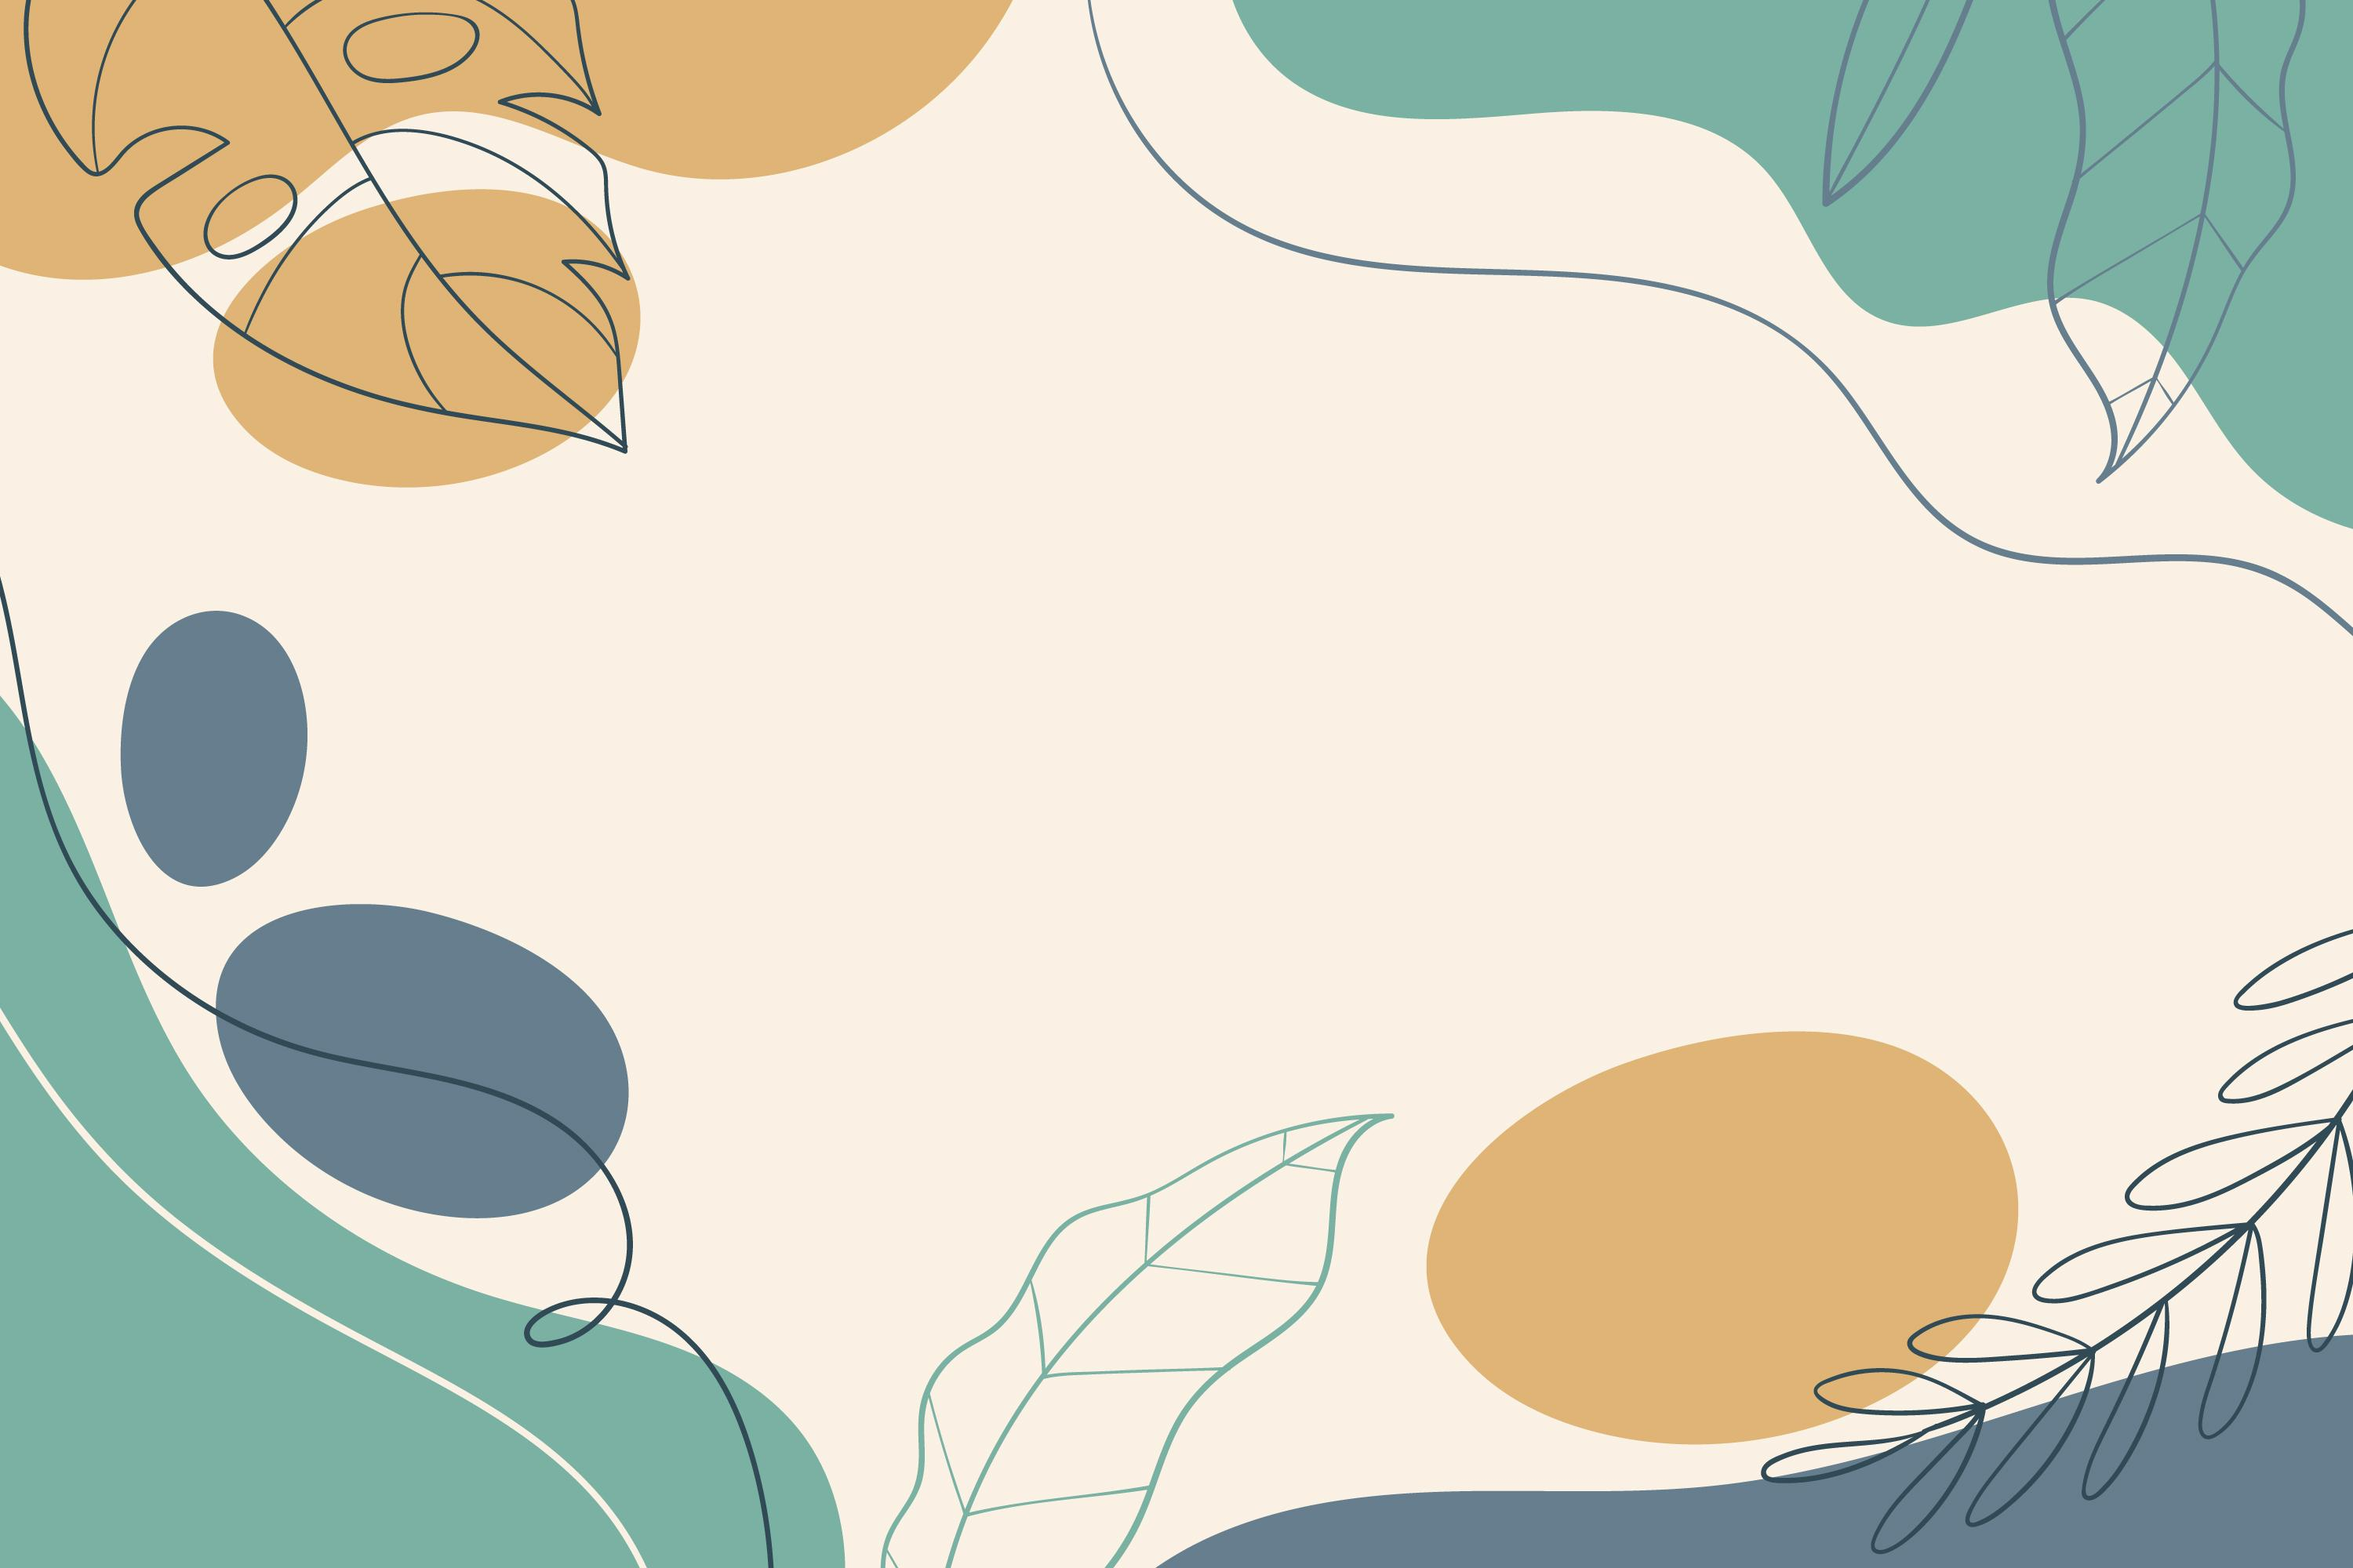
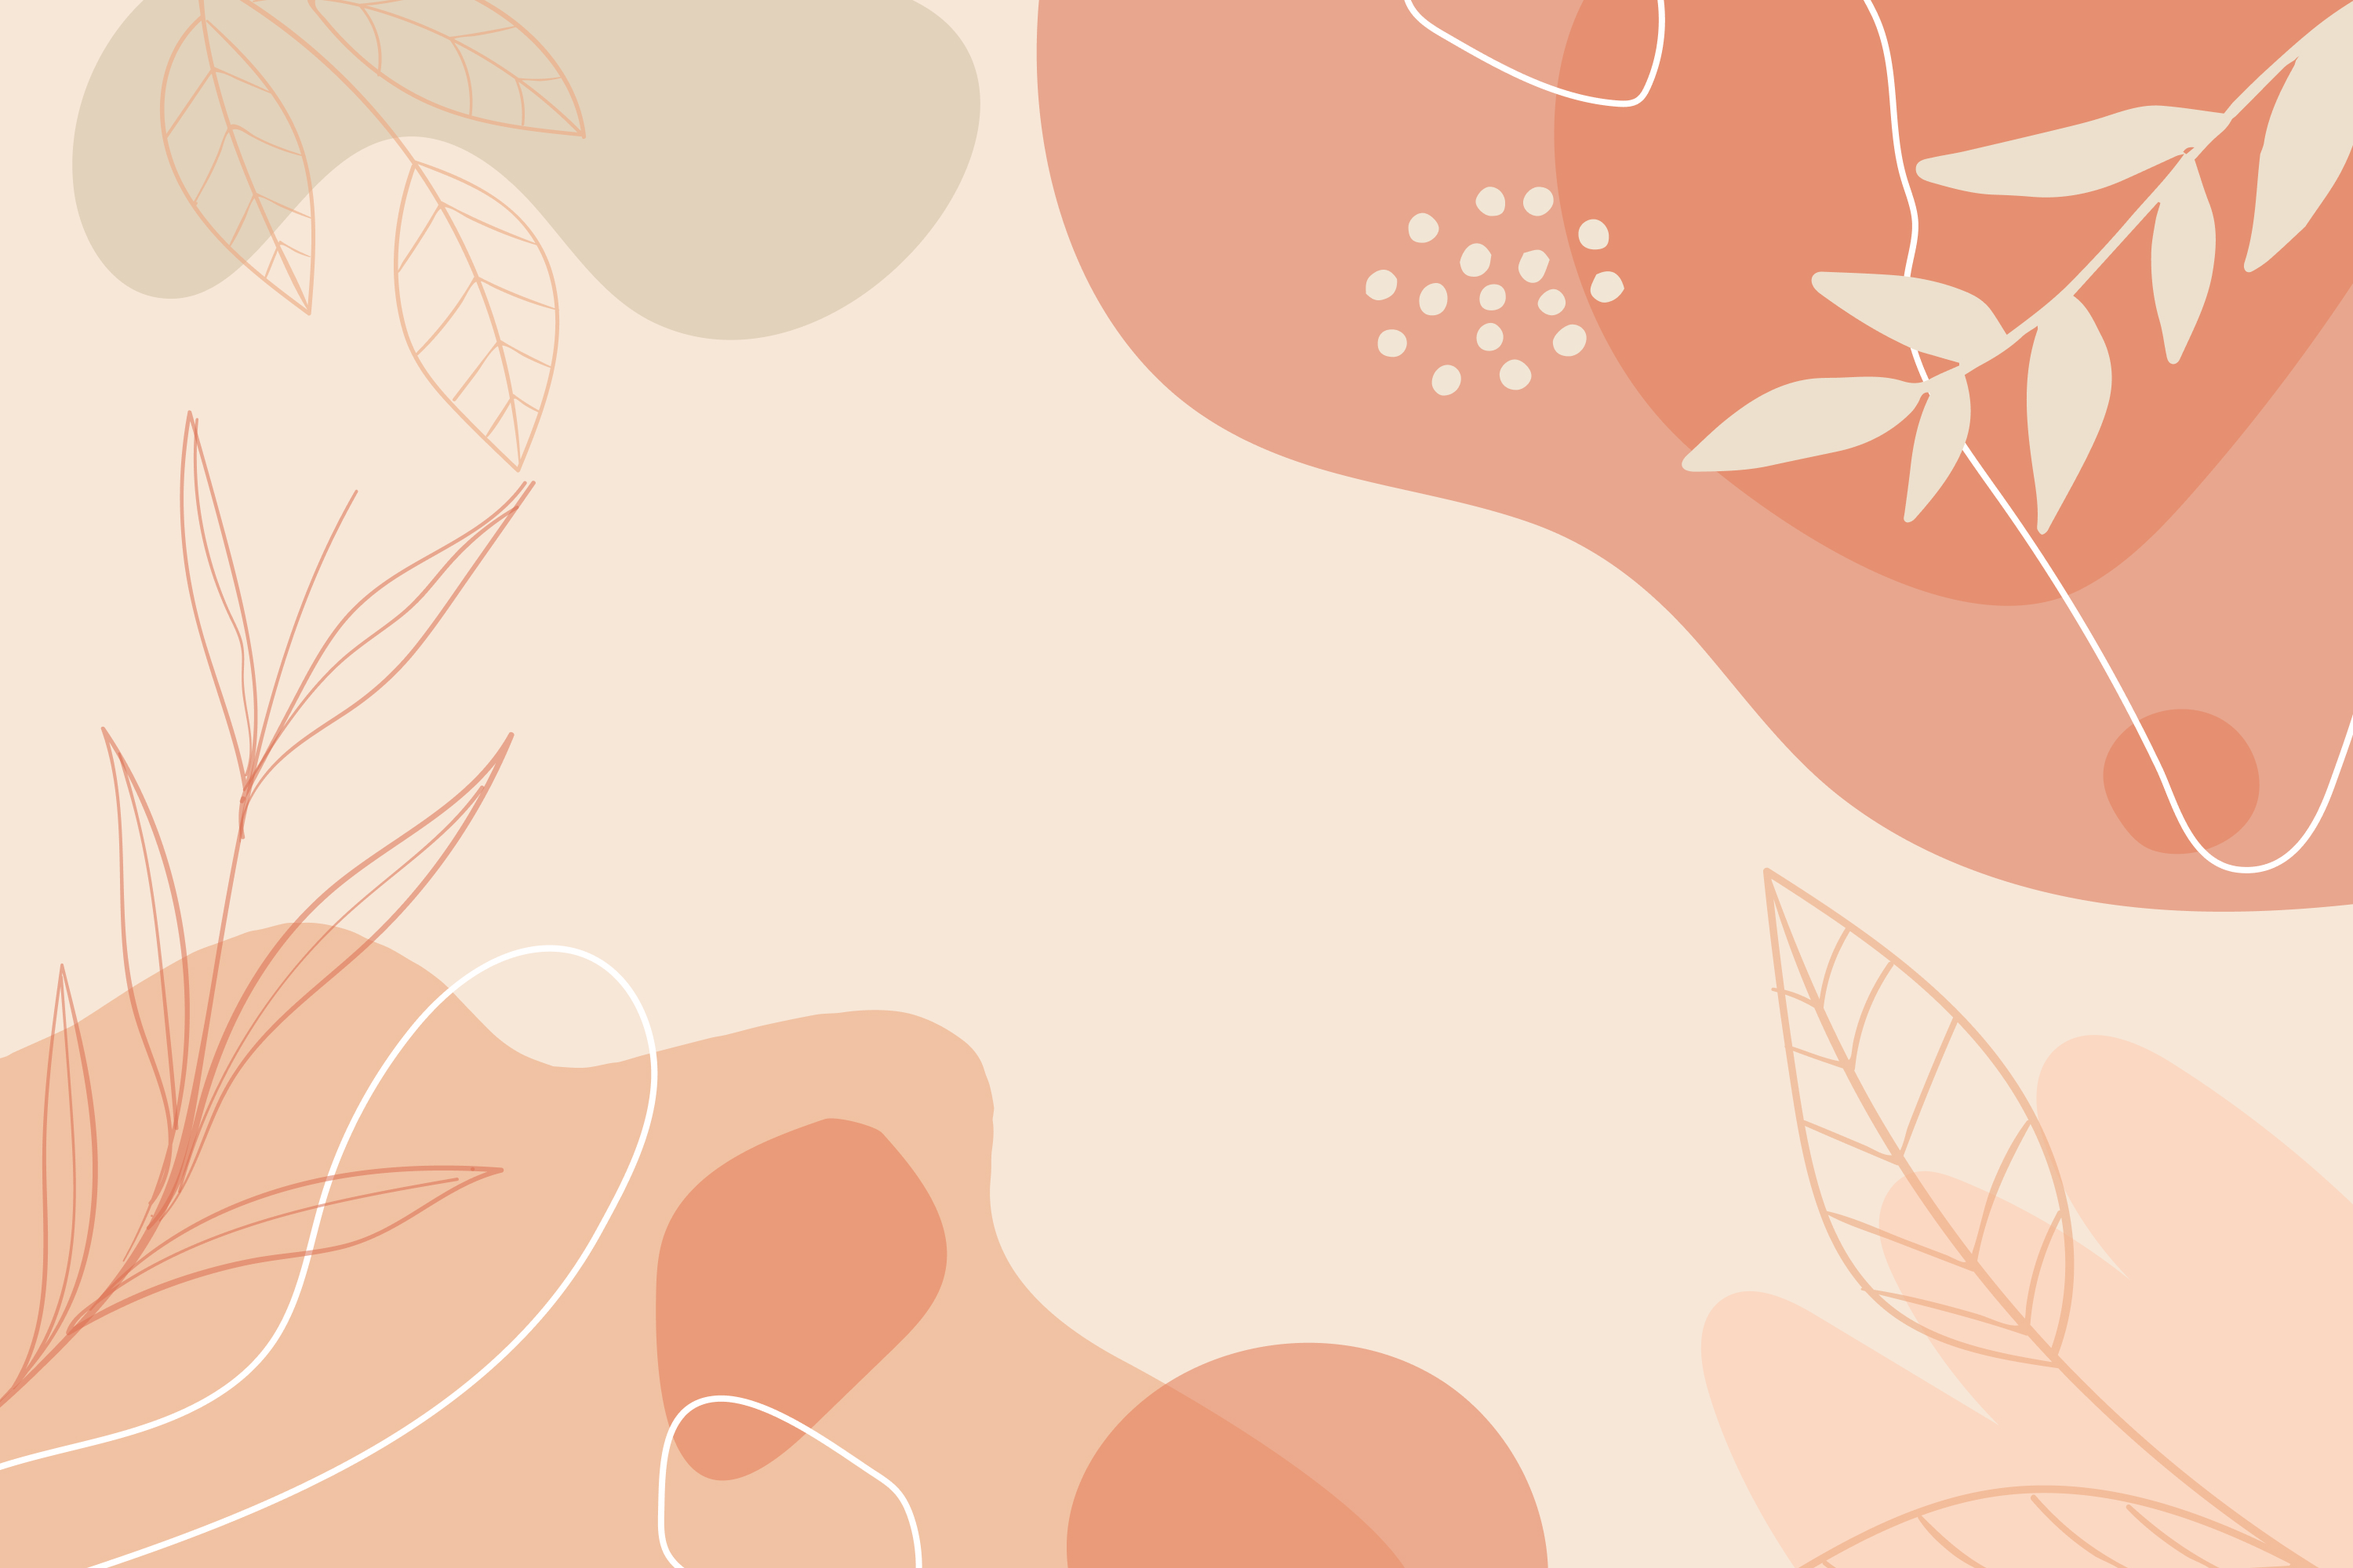
Исправление стилей

diff --git a/styles/stats.css b/styles/stats.css
@@ -1,5 +1,5 @@
 body{
-    background-image: url('../backgroundImages/menu.jpg');
+    background-image: url('../backgroundImages/stats.jpg');
     background-size: cover;
     background-position: center;
     background-repeat: no-repeat;
